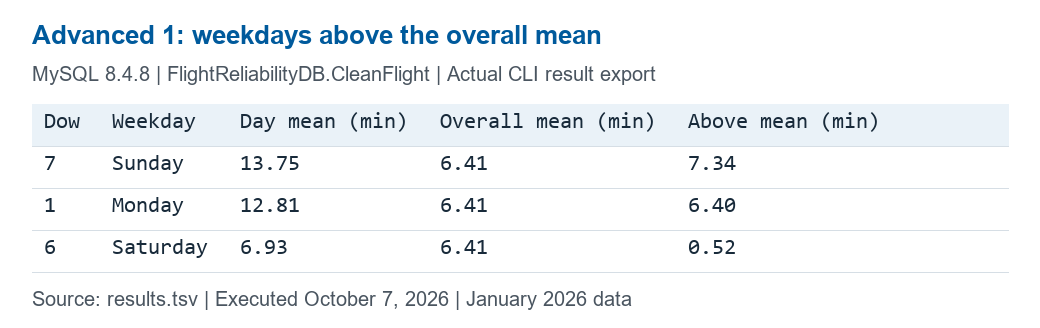
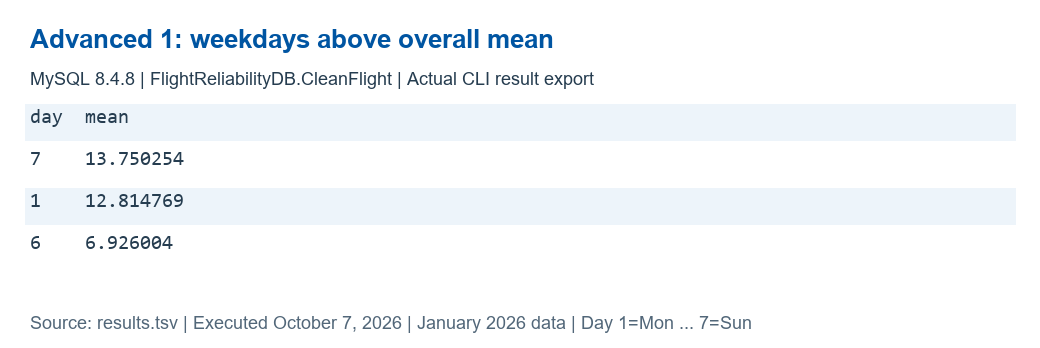
fix(sql): use taught subqueries, refresh results

diff --git a/queries/delay_causes_day_of_week/README.md b/queries/delay_causes_day_of_week/README.md
@@ -1,8 +1,8 @@
 # Arin: delay causes and weekday patterns
 
-- **SQL:** [Four queries](Arin_Delay_Causes_Day_Of_Week.sql), two basic and two advanced.
-- **Results:** [MySQL output](results.tsv) and four PNG result exports, in query order.
-- **Run:** MySQL 8, database FlightReliabilityDB, table CleanFlight.
-- **Data:** January 2026; 544,003 rows loaded and 517,222 eligible arrivals.
-- **Findings:** Sunday and Monday have the highest mean arrival delays. Carrier and late-aircraft delays have the largest reported totals each weekday.
-- **Limit:** Descriptive results on the cleaned flat table; final normalized schema not verified.
+- [SQL](Arin_Delay_Causes_Day_Of_Week.sql): two basic aggregates and two advanced subqueries.
+- [Results](results.tsv): actual MySQL output; PNG exports show each result set.
+- Scope: DATA 201 Lectures 5-7. Advanced 1 uses HAVING with a scalar subquery; Advanced 2 uses a correlated scalar subquery. No CTEs or window functions.
+- Run: MySQL 8, FlightReliabilityDB.CleanFlight; January 2026 data.
+- Findings: Sunday, Monday and Saturday exceed the overall mean. Carrier and late-aircraft delays have the largest overall reported totals; late-aircraft totals exceed carrier totals on Monday and Sunday.
+- Means are displayed to two decimals on slides. Cleaned flat-table execution does not verify final normalized-schema import.
